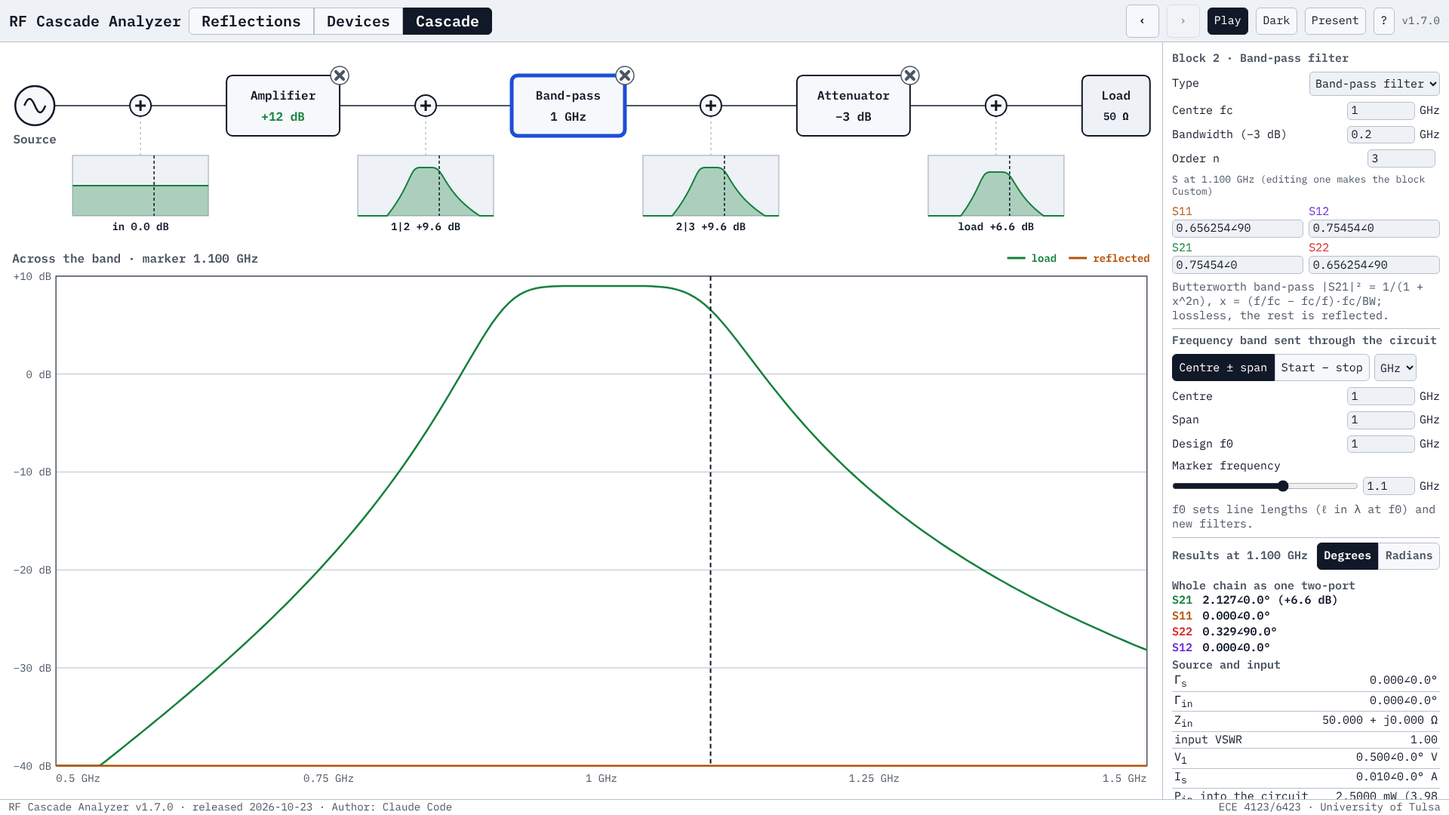
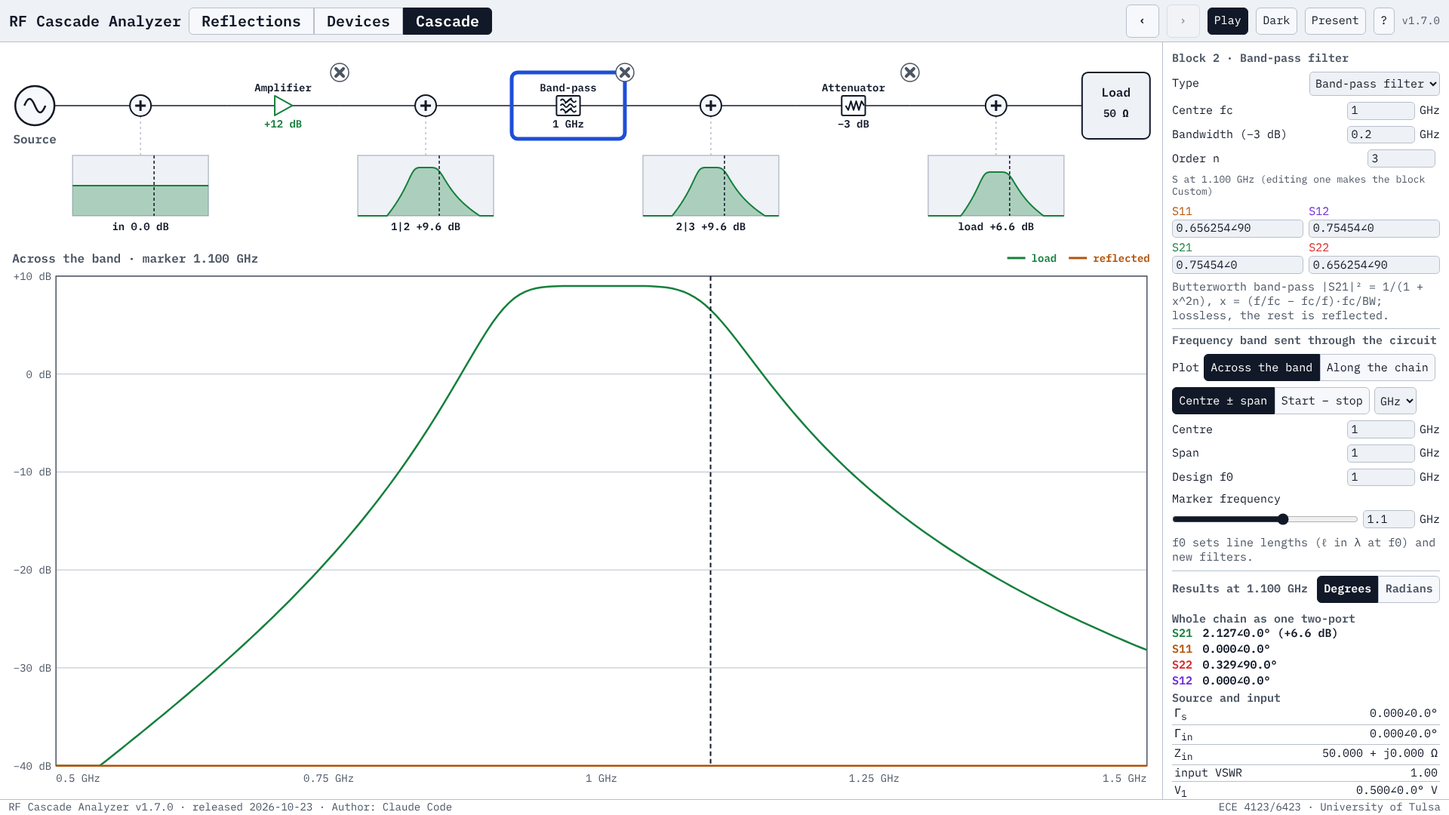
RF Cascade v1.7.0: Cascade blocks as standard schematic symbols; power along the chain plot
Each block is drawn with its standard schematic symbol on the wire
(amplifier triangle, attenuator resistor box, transmission line, phase
shifter, low-/high-/band-pass filter waves with the stopped bands struck,
isolator arrow, Custom S), with its name above and value below. A new
plot shows the power after each stage at the marker frequency, with the
stages' symbols along its axis; with a divider the line splits into
branch A and branch B. A Plot switch in the panel chooses it or the
response across the band.

Claude-Session: https://claude.ai/code/session_01K91XZ2Ca3dbV4NeCriL9c8

diff --git a/ece-4123/RF_Cascade_Analyzer_v1.7.0.html b/ece-4123/RF_Cascade_Analyzer_v1.7.0.html
@@ -4,7 +4,7 @@
   Version: v1.7.0
   Released: 2026-10-23
   Changelog:
-    v1.7.0 - Cascade: v1.1.0's Lab brought back (source Vs and Zs, reference Z0, loads with Matched/Short/Open, device presets with S entries, results with node voltages, currents and powers), its settings and results in the side panel and the circuit drawn large across the drawing area; a power divider can be inserted at any junction, splitting the chain into two parallel branches with their own loads; a frequency band (centre ± span or start–stop) is sent through the circuit, with the spectrum at every junction, the response across the band, a marker frequency, and frequency-dependent lines and Butterworth low-, high- and band-pass filters. Reflections: incident and reflected waves drawn heavier, the envelope shade faint while they are shown. Devices: a zero-valued S path keeps the same solid style (no dashes, not faded), at the minimum width, valued "0".
+    v1.7.0 - Cascade: v1.1.0's Lab brought back (source Vs and Zs, reference Z0, loads with Matched/Short/Open, device presets with S entries, results with node voltages, currents and powers), its settings and results in the side panel and the circuit drawn large across the drawing area; a power divider can be inserted at any junction, splitting the chain into two parallel branches with their own loads; a frequency band (centre ± span or start–stop) is sent through the circuit, with the spectrum at every junction, the response across the band, a marker frequency, and frequency-dependent lines and Butterworth low-, high- and band-pass filters; each block drawn with its standard schematic symbol, and a plot of the power along the chain (after each stage, the stages' symbols on its axis) as an alternative to the response across the band. Reflections: incident and reflected waves drawn heavier, the envelope shade faint while they are shown. Devices: a zero-valued S path keeps the same solid style (no dashes, not faded), at the minimum width, valued "0".
     v1.6.0 - Devices: drawn as the incident / reflected / transmitted flow diagram (V1⁺ and V2⁺ split into S21, S11 and S12, S22; braces gather V1⁻ and V2⁻; a DUT box with Port 1 and Port 2), each path in its S colour and as wide as its power, unexcited paths faded but clearly visible, values and power shares on the paths; every device's S entries editable, keeping the device as "<Device> (edited)" with a reset.
     v1.5.0 - Devices: two-port drawn as the textbook signal-flow graph (each port two terminal wires, a in on top, b out on the bottom; S21 and S12 crossing, S11 and S22 down each side); wave arrows always solid; S-parameters adjustable on every device. Reflections: an open or a short ends the line (a marker at the interface, nothing enters Region 2). Cascade: the v1.3.0 drawing restored, with the S-parameter editor kept; a block can be inserted at any junction of the chain.
     v1.4.1 - Declutter: smaller text at all window sizes; Reflections — separate power rows, voltage plot enlarged, titles/legend/caption to the side panel, VSWR equation and extra labels removed, incident/reflected off by default; Devices — one port line per side, waves as arrows beside it, thinner paths, smaller matrix; Cascade — S-parameter editor shown on selection.
@@ -1249,8 +1249,8 @@ const DEC_P = 4, DEC_DBM = 2, DEC_RAD = 3, MW = 1e-3;
 const PLOT_SPAN = 50, MINI_SPAN = 40;   // dB shown by the response plot and by each junction spectrum
 /* Layout (design units = px at 1280×720). The drawing is as wide as the drawing area (at least 900): the circuit spreads
    to fill it. Cascade: one row; divider: branch A above, the chain and the divider in the middle, branch B below. */
-const LY_C = { edge: 16, srcR: 26, loadW: 90, divW: 96, plusR: 14, rowC: 84, rowsD: { A: 118, M: 198, B: 278 }, bhC: 80, bhD: 60,
-               miniC: { top: 150, h: 80 }, miniD: { top: 24, h: 46, topB: 330 }, plotC: 272, plotD: 412 };
+const LY_C = { edge: 16, srcR: 26, loadW: 90, divW: 96, plusR: 14, rowC: 84, rowsD: { A: 118, M: 198, B: 278 }, bhC: 88, bhD: 80,
+               miniC: { top: 150, h: 80 }, miniD: { top: 22, h: 44, topB: 330 }, plotC: 272, plotD: 412 };
 // ── END CONSTANTS ─────────────────────────────────────────────
 
 // ── STATE ─────────────────────────────────────────────────────
@@ -1259,7 +1259,7 @@ const K = {
   main: [], A: [], B: [], div: null,                                   // div: null, or { type, split (% into A) }
   zl: zLoad(C(50, 0)), zlA: zLoad(C(50, 0)), zlB: zLoad(C(50, 0)),
   f1: 0.5e9, f2: 1.5e9, bandMode: 'cs', fu: 'GHz', f0: 1e9, fm: 1e9,   // band start/stop (Hz), entry mode, unit, design and marker frequencies
-  sel: { k: 'main', i: 0 }, menu: false,                               // selection: a block { k: main|A|B, i }, or { k: src|load|div }; menu: "k:j" of an open "+"
+  sel: { k: 'main', i: 0 }, menu: false, plotMode: 'band',             // plotMode: the response across the band, or the power along the chain                               // selection: a block { k: main|A|B, i }, or { k: src|load|div }; menu: "k:j" of an open "+"
 };
 // A new block of a preset with its default parameters (custom: S, here a matched through).
 function newBlock(type, p){
@@ -1421,14 +1421,40 @@ function plusBtn(k, j, x, y, where){
     el('title', {}, 'Add a block here') + el('circle', { cx: x, cy: y, r: LY_C.plusR, fill: 'var(--panel)', stroke: 'var(--txt)', 'stroke-width': 2, class: 'plus' })
     + el('path', { d: 'M' + n2(x - 7) + ' ' + y + 'h14M' + n2(x) + ' ' + (y - 7) + 'v14', stroke: 'var(--txt)', 'stroke-width': 3 }));
 }
-// One block box: short name and key value, × to remove, the selected one highlighted.
+/* An RF schematic symbol for a block type, centred at (cx, cy), s units half-high, drawn in col: amplifier triangle,
+   attenuator (resistor in a box), transmission line, phase shifter (φ), filters (three waves, the stopped bands struck
+   through: low-pass the upper two, high-pass the lower two, band-pass the outer two), isolator (one-way arrow), Custom (S). */
+function sym(type, cx, cy, s, col){
+  const st = { fill: 'none', stroke: col, 'stroke-width': 2, 'stroke-linejoin': 'round' }, P = d => el('path', Object.assign({ d }, st));
+  const box = (w) => el('rect', Object.assign({ x: cx - w, y: cy - s, width: 2 * w, height: 2 * s, rx: 2 }, st, { fill: 'var(--bg)' }));
+  const wave = (y, w) => { let d = 'M' + n2(cx - w) + ' ' + n2(y); for(let i = 0; i < 2; i++){ d += 'q' + n2(w / 4) + ' ' + n2(-s * 0.3) + ' ' + n2(w / 2) + ' 0t' + n2(w / 2) + ' 0'; } return P(d); };
+  const strike = y => P('M' + n2(cx - s * 0.35) + ' ' + n2(y + s * 0.28) + 'L' + n2(cx + s * 0.35) + ' ' + n2(y - s * 0.28));
+  let g = '';
+  switch(type){
+    case 'amp': g = P('M' + n2(cx - s * 0.85) + ' ' + n2(cy - s) + 'L' + n2(cx + s * 0.95) + ' ' + n2(cy) + 'L' + n2(cx - s * 0.85) + ' ' + n2(cy + s) + 'Z'); break;
+    case 'atten': g = box(s * 1.2) + P('M' + n2(cx - s * 0.8) + ' ' + cy + 'l' + [1, -1, 1, -1, 1, -1].map((v, i) => n2(s * 0.27) + ' ' + n2(v * s * 0.45 * (i ? 2 : 1))).join('l') + 'l' + n2(s * 0.27) + ' ' + n2(s * 0.45)); break;
+    case 'thru': g = el('rect', Object.assign({ x: cx - s * 1.6, y: cy - s * 0.35, width: s * 3.2, height: s * 0.7 }, st, { fill: 'var(--bg)' })); break;
+    case 'phase': g = box(s * 1.2) + txt(cx, cy, 'φ', { anchor: 'middle', size: FS.small, fill: col }); break;
+    case 'lpf': case 'hpf': case 'bpf': { const w = s * 0.8, ys = [cy - s * 0.5, cy, cy + s * 0.5];
+      g = box(s * 1.2) + ys.map(y => wave(y, w)).join('') + (type === 'lpf' ? [0, 1] : type === 'hpf' ? [1, 2] : [0, 2]).map(i => strike(ys[i])).join(''); break; }
+    case 'isolator': g = box(s * 1.2) + P('M' + n2(cx - s * 0.75) + ' ' + cy + 'H' + n2(cx + s * 0.35)) + el('path', { d: 'M' + n2(cx + s * 0.75) + ' ' + cy + 'l' + n2(-s * 0.5) + ' ' + n2(-s * 0.35) + 'v' + n2(s * 0.7) + 'Z', fill: col, stroke: 'none' }); break;
+    default: g = box(s * 1.2) + txt(cx, cy, 'S', { anchor: 'middle', size: FS.small, fill: col });
+  }
+  return el('g', { class: 'sym', 'data-sym': type }, g);
+}
+// Half-width of a symbol of half-height s (its leads run from the block's edges to here).
+const symHalf = (type, s) => (type === 'amp' ? s * 0.9 : type === 'thru' ? s * 1.6 : s * 1.2);
+/* One block: its RF symbol on the wire (leads from the block's edges), short name above, key value below, × to remove;
+   the block's area masks the wire behind it and is outlined only when selected. */
 function blockBox(G, k, i, x, y){
-  const d = K[k][i], on = isSel(k, i), top = y - G.bh / 2, cx = x + G.bw / 2, big = G.bw >= 110, fs = big ? FS.label : FS.small;
-  const lines = G.div ? [top + 17, top + 44] : [top + 26, top + 54];   // clear of the wire through the middle
+  const d = K[k][i], on = isSel(k, i), top = y - G.bh / 2, cx = x + G.bw / 2, big = G.bw >= 110, fs = FS.small;   // 14: names clear the × at the corner
+  const ss = G.div ? 11 : 13, dy = G.div ? 22 : 24, hw = symHalf(d.type, ss);
   let s = btnG({ 'data-blk': k + ':' + i, 'aria-pressed': on ? 'true' : 'false' }, blockName(k, i) + ': ' + PRESET_NAME[d.type] + ' ' + keyText(d) + (on ? ' (selected)' : ''),
-    el('rect', { x, y: top, width: G.bw, height: G.bh, rx: 8, fill: 'var(--panel)', stroke: on ? 'var(--focus)' : 'var(--txt)', 'stroke-width': on ? 5 : 2, class: 'block' + (on ? ' sel' : '') })
-    + txt(cx, lines[0], (big ? SHORT_NAME : ABBR)[d.type], { anchor: 'middle', size: fs })
-    + txt(cx, lines[1], keyText(d), { anchor: 'middle', size: fs, fill: d.type === 'amp' ? 'var(--s21)' : 'var(--txt)', cls: 'keyv' }));
+    el('rect', { x, y: top, width: G.bw, height: G.bh, rx: 8, fill: 'var(--bg)', stroke: on ? 'var(--focus)' : 'none', 'stroke-width': on ? 5 : 2, class: 'block' + (on ? ' sel' : '') })
+    + el('path', { d: 'M' + n2(x) + ' ' + y + 'H' + n2(cx - hw) + 'M' + n2(cx + hw) + ' ' + y + 'H' + n2(x + G.bw), stroke: 'var(--mut)', 'stroke-width': 2, class: 'lead' })
+    + sym(d.type, cx, y, ss, d.type === 'amp' ? 'var(--s21)' : 'var(--txt)')
+    + txt(cx, y - dy, (big ? SHORT_NAME : ABBR)[d.type], { anchor: 'middle', size: fs })
+    + txt(cx, y + dy, keyText(d), { anchor: 'middle', size: fs, fill: d.type === 'amp' ? 'var(--s21)' : 'var(--txt)', cls: 'keyv' }));
   if(K.div || K.main.length > 1) s += btnG({ 'data-del': k + ':' + i }, 'Remove ' + blockName(k, i).toLowerCase(),
     el('circle', { cx: x + G.bw, cy: top, r: 12, fill: 'var(--bg)', stroke: 'var(--mut)', 'stroke-width': 1.5, class: 'xbtn' }) + crossMark(x + G.bw, top, 5, 'var(--mut)'));
   return s;
@@ -1438,8 +1464,8 @@ function loadBox(G, b, y){
   const zl = K[loadKey(b)], top = y - G.bh / 2, cx = G.loadX + LY_C.loadW / 2, on = isSel('load') && K.sel.b === b;
   return btnG({ 'data-load': b, 'aria-pressed': on ? 'true' : 'false' }, 'Load' + (b === 'L' ? '' : ' ' + b) + ': ' + loadShort(zl).replace(INF, 'open'),
     el('rect', { x: G.loadX, y: top, width: LY_C.loadW, height: G.bh, rx: 8, fill: 'var(--bg2)', stroke: on ? 'var(--focus)' : 'var(--txt)', 'stroke-width': on ? 5 : 2, class: 'load' })
-    + txt(cx, top + (G.div ? 17 : 26), 'Load' + (b === 'L' ? '' : ' ' + b), { anchor: 'middle', size: G.div ? FS.small : FS.label })
-    + txt(cx, top + (G.div ? 44 : 54), loadShort(zl), { anchor: 'middle', size: FS.small, id: 'loadVal' + (b === 'L' ? '' : b) }));
+    + txt(cx, top + (G.div ? 22 : 26), 'Load' + (b === 'L' ? '' : ' ' + b), { anchor: 'middle', size: G.div ? FS.small : FS.label })
+    + txt(cx, top + (G.div ? 50 : 54), loadShort(zl), { anchor: 'middle', size: FS.small, id: 'loadVal' + (b === 'L' ? '' : b) }));
 }
 // The circuit: source, wires, blocks, the divider and its branches, loads, and a "+" at every junction with room.
 function drawCircuit(G){
@@ -1527,6 +1553,43 @@ function drawPlot(G, sw, y0){
   K.plot = { x0, x1 };
   return s;
 }
+/* The power along the chain at the marker frequency (dB of the reference) after each stage, as in a cascade-analysis
+   chart: one point per junction, the stages' symbols along the axis; with a divider the line splits into branch A
+   (green) and branch B (purple, dashed), their symbols in their colours on two rows. */
+function drawChainPlot(G, atM, y0){
+  const e = LY_C.edge, nM = K.main.length, nBr = G.div ? Math.max(K.A.length, K.B.length) : 0, steps = G.div ? nM + 1 + nBr : nM;
+  const x0 = e + 58, x1 = G.W - e - 4, yt = y0 + 38, yb = G.H - e - (G.div ? 56 : 50);
+  if(yb - yt < 60) return '';
+  const xs = i => x0 + 30 + (x1 - x0 - 60) * i / Math.max(1, steps);
+  const pts = { M: atM.M.map((v, j) => [xs(j), v, 'chainM' + j]) };
+  if(G.div) ['A', 'B'].forEach(k => { pts[k] = [[xs(nM), atM.M[nM]]].concat(atM[k].map((v, j) => [xs(nM + 1 + j), v, 'chain' + k + j])); });
+  const all = [].concat(atM.M, atM.A, atM.B).map(db10).filter(isFinite), top = 10 * Math.ceil((Math.max(0, ...all) + 1) / 10);
+  const bot = Math.max(top - 80, Math.min(top - 30, 10 * Math.floor((Math.min(...all, 0) - 1) / 10))), span = top - bot;
+  const ys = r => { const d = db10(r); return yb - (yb - yt) * (Math.max(bot, Math.min(top, d === -Infinity ? bot : d)) - bot) / span; };
+  const series = G.div ? [['load A', 'var(--s21)'], ['load B', 'var(--s12)', true]] : [['load', 'var(--s21)']];
+  let s = heading(e, y0 + 14, 'Along the chain at ' + fFull(K.fm));
+  let lx = G.W - e;
+  series.slice().reverse().forEach(([t, col, dash]) => { s += txt(lx, y0 + 14, t, { anchor: 'end', size: FS.small, fill: col, cls: 'legend' }); lx -= textW(t, FS.small) + 8;
+    s += el('line', { x1: lx - 24, y1: y0 + 14, x2: lx, y2: y0 + 14, stroke: col, 'stroke-width': 3, 'stroke-dasharray': dash ? '6 4' : null }); lx -= 40; });
+  for(let v = bot; v <= top; v += 10){ const y = ys(Math.pow(10, v / 10));
+    s += el('line', { x1: x0, y1: y, x2: x1, y2: y, stroke: 'var(--line)', 'stroke-width': 1, class: 'grid' });
+    s += txt(x0 - 6, y, (v > 0 ? '+' : '') + fx(v, 0) + ' dB', { anchor: 'end', size: FS.small, fill: 'var(--mut)', weight: 400 }); }
+  for(let i = 0; i <= steps; i++) s += el('line', { x1: xs(i), y1: yt, x2: xs(i), y2: yb, stroke: 'var(--line)', 'stroke-width': 1, 'stroke-dasharray': '2 4', class: 'grid' });
+  s += el('rect', { x: x0, y: yt, width: x1 - x0, height: yb - yt, fill: 'none', stroke: 'var(--mut)', 'stroke-width': 1.5, class: 'frame' });
+  const line = (p, col, dash, q) => el('path', { d: 'M' + p.map(([x, v]) => n2(x) + ' ' + n2(ys(v))).join('L'), fill: 'none', stroke: col, 'stroke-width': 3, 'stroke-dasharray': dash ? '9 6' : null, class: 'curve', 'data-q': q });
+  const dots = (p, col) => p.filter(x => x[2]).map(([x, v, q]) => el('circle', { cx: x, cy: ys(v), r: 4.5, fill: col, stroke: 'var(--bg)', 'stroke-width': 1.5, class: 'cdot', 'data-q': q, 'data-v': +db10(v).toFixed(6) })).join('');
+  if(G.div){ s += line(pts.M, 'var(--txt)', false, 'chainLineM') + line(pts.A, 'var(--s21)', false, 'chainLineA') + line(pts.B, 'var(--s12)', true, 'chainLineB');
+    s += dots(pts.M, 'var(--txt)') + dots(pts.A, 'var(--s21)') + dots(pts.B, 'var(--s12)'); }
+  else s += line(pts.M, 'var(--s21)', false, 'chainLineM') + dots(pts.M, 'var(--s21)');
+  // the stages' symbols under the axis, between their two points (names under them when there is no divider)
+  const mid = i => (xs(i) + xs(i + 1)) / 2, yS = yb + 18, yS2 = yb + 42;
+  K.main.forEach((d, i) => { s += sym(d.type, mid(i), yS, 9, 'var(--txt)'); if(!G.div) s += txt(mid(i), yb + 40, ABBR[d.type], { anchor: 'middle', size: FS.small, fill: 'var(--mut)', weight: 400 }); });
+  if(G.div){ const xd = mid(nM);
+    s += el('path', { d: 'M' + n2(xd - 12) + ' ' + yS + 'H' + n2(xd) + 'M' + n2(xd) + ' ' + yS + 'L' + n2(xd + 12) + ' ' + (yS - 8) + 'M' + n2(xd) + ' ' + yS + 'L' + n2(xd + 12) + ' ' + (yS + 8), fill: 'none', stroke: 'var(--txt)', 'stroke-width': 2, class: 'sym' });
+    K.A.forEach((d, i) => { s += sym(d.type, mid(nM + 1 + i), yS, 9, 'var(--s21)'); });
+    K.B.forEach((d, i) => { s += sym(d.type, mid(nM + 1 + i), yS2, 9, 'var(--s12)'); }); }
+  return s;
+}
 // The whole Cascade drawing (W: the drawing's width in design units).
 function drawCascade(H, W){
   W = Math.max(DESIGN_W, W || DESIGN_W);
@@ -1534,7 +1597,7 @@ function drawCascade(H, W){
   const atM = { M: at(r.nodesM), A: G.div ? at(r.nodesA) : [], B: G.div ? at(r.nodesB) : [] };
   K.geo = G;
   return el('svg', { class: 'vis', viewBox: '0 0 ' + n2(W) + ' ' + n2(H), role: 'img', 'aria-label': 'Cascade: the circuit, the band\'s spectrum at each junction and the response across the band' },
-    drawMinis(G, sw, atM) + drawCircuit(G) + drawPlot(G, sw, G.div ? LY_C.plotD : LY_C.plotC));
+    drawMinis(G, sw, atM) + drawCircuit(G) + (K.plotMode === 'chain' ? drawChainPlot(G, atM, G.div ? LY_C.plotD : LY_C.plotC) : drawPlot(G, sw, G.div ? LY_C.plotD : LY_C.plotC)));
 }
 // ── END DRAWING ───────────────────────────────────────────────
 
@@ -1690,6 +1753,7 @@ function bandEditor(){
   const mk = slider({ id: 'fm', label: 'Marker frequency', min: K.f1 / u, max: K.f2 / u, step: 'any', value: K.fm / u, unit: K.fu, fmt: v => v + ' ' + K.fu,
     onset: v => { K.fm = Math.min(K.f2, Math.max(K.f1, v * u)); redraw(false); } });
   return [h('div', { cls: 'sec', text: 'Frequency band sent through the circuit' }),
+    h('div', { cls: 'nrow' }, h('span', { text: 'Plot' }), segGroup('Plot', [['band', 'Across the band'], ['chain', 'Along the chain']], K.plotMode, v => { K.plotMode = v; redraw(true); })),
     h('div', { cls: 'btnrow' }, segGroup('Band entry', [['cs', 'Centre ± span'], ['ss', 'Start – stop']], K.bandMode, v => { K.bandMode = v; redraw(true); }), unitSel),
     a, b, numField('f0', 'Design f0', K.f0 / u, K.fu, v => v > 0, v => { K.f0 = v * u; }), mk,
     note('f0 sets line lengths (ℓ in λ at f0) and new filters.')];

diff --git a/ece-4123/RF_Cascade_Analyzer_src/cascade.js b/ece-4123/RF_Cascade_Analyzer_src/cascade.js
@@ -58,8 +58,8 @@ const DEC_P = 4, DEC_DBM = 2, DEC_RAD = 3, MW = 1e-3;
 const PLOT_SPAN = 50, MINI_SPAN = 40;   // dB shown by the response plot and by each junction spectrum
 /* Layout (design units = px at 1280×720). The drawing is as wide as the drawing area (at least 900): the circuit spreads
    to fill it. Cascade: one row; divider: branch A above, the chain and the divider in the middle, branch B below. */
-const LY_C = { edge: 16, srcR: 26, loadW: 90, divW: 96, plusR: 14, rowC: 84, rowsD: { A: 118, M: 198, B: 278 }, bhC: 80, bhD: 60,
-               miniC: { top: 150, h: 80 }, miniD: { top: 24, h: 46, topB: 330 }, plotC: 272, plotD: 412 };
+const LY_C = { edge: 16, srcR: 26, loadW: 90, divW: 96, plusR: 14, rowC: 84, rowsD: { A: 118, M: 198, B: 278 }, bhC: 88, bhD: 80,
+               miniC: { top: 150, h: 80 }, miniD: { top: 22, h: 44, topB: 330 }, plotC: 272, plotD: 412 };
 // ── END CONSTANTS ─────────────────────────────────────────────
 
 // ── STATE ─────────────────────────────────────────────────────
@@ -68,7 +68,7 @@ const K = {
   main: [], A: [], B: [], div: null,                                   // div: null, or { type, split (% into A) }
   zl: zLoad(C(50, 0)), zlA: zLoad(C(50, 0)), zlB: zLoad(C(50, 0)),
   f1: 0.5e9, f2: 1.5e9, bandMode: 'cs', fu: 'GHz', f0: 1e9, fm: 1e9,   // band start/stop (Hz), entry mode, unit, design and marker frequencies
-  sel: { k: 'main', i: 0 }, menu: false,                               // selection: a block { k: main|A|B, i }, or { k: src|load|div }; menu: "k:j" of an open "+"
+  sel: { k: 'main', i: 0 }, menu: false, plotMode: 'band',             // plotMode: the response across the band, or the power along the chain                               // selection: a block { k: main|A|B, i }, or { k: src|load|div }; menu: "k:j" of an open "+"
 };
 // A new block of a preset with its default parameters (custom: S, here a matched through).
 function newBlock(type, p){
@@ -230,14 +230,40 @@ function plusBtn(k, j, x, y, where){
     el('title', {}, 'Add a block here') + el('circle', { cx: x, cy: y, r: LY_C.plusR, fill: 'var(--panel)', stroke: 'var(--txt)', 'stroke-width': 2, class: 'plus' })
     + el('path', { d: 'M' + n2(x - 7) + ' ' + y + 'h14M' + n2(x) + ' ' + (y - 7) + 'v14', stroke: 'var(--txt)', 'stroke-width': 3 }));
 }
-// One block box: short name and key value, × to remove, the selected one highlighted.
+/* An RF schematic symbol for a block type, centred at (cx, cy), s units half-high, drawn in col: amplifier triangle,
+   attenuator (resistor in a box), transmission line, phase shifter (φ), filters (three waves, the stopped bands struck
+   through: low-pass the upper two, high-pass the lower two, band-pass the outer two), isolator (one-way arrow), Custom (S). */
+function sym(type, cx, cy, s, col){
+  const st = { fill: 'none', stroke: col, 'stroke-width': 2, 'stroke-linejoin': 'round' }, P = d => el('path', Object.assign({ d }, st));
+  const box = (w) => el('rect', Object.assign({ x: cx - w, y: cy - s, width: 2 * w, height: 2 * s, rx: 2 }, st, { fill: 'var(--bg)' }));
+  const wave = (y, w) => { let d = 'M' + n2(cx - w) + ' ' + n2(y); for(let i = 0; i < 2; i++){ d += 'q' + n2(w / 4) + ' ' + n2(-s * 0.3) + ' ' + n2(w / 2) + ' 0t' + n2(w / 2) + ' 0'; } return P(d); };
+  const strike = y => P('M' + n2(cx - s * 0.35) + ' ' + n2(y + s * 0.28) + 'L' + n2(cx + s * 0.35) + ' ' + n2(y - s * 0.28));
+  let g = '';
+  switch(type){
+    case 'amp': g = P('M' + n2(cx - s * 0.85) + ' ' + n2(cy - s) + 'L' + n2(cx + s * 0.95) + ' ' + n2(cy) + 'L' + n2(cx - s * 0.85) + ' ' + n2(cy + s) + 'Z'); break;
+    case 'atten': g = box(s * 1.2) + P('M' + n2(cx - s * 0.8) + ' ' + cy + 'l' + [1, -1, 1, -1, 1, -1].map((v, i) => n2(s * 0.27) + ' ' + n2(v * s * 0.45 * (i ? 2 : 1))).join('l') + 'l' + n2(s * 0.27) + ' ' + n2(s * 0.45)); break;
+    case 'thru': g = el('rect', Object.assign({ x: cx - s * 1.6, y: cy - s * 0.35, width: s * 3.2, height: s * 0.7 }, st, { fill: 'var(--bg)' })); break;
+    case 'phase': g = box(s * 1.2) + txt(cx, cy, 'φ', { anchor: 'middle', size: FS.small, fill: col }); break;
+    case 'lpf': case 'hpf': case 'bpf': { const w = s * 0.8, ys = [cy - s * 0.5, cy, cy + s * 0.5];
+      g = box(s * 1.2) + ys.map(y => wave(y, w)).join('') + (type === 'lpf' ? [0, 1] : type === 'hpf' ? [1, 2] : [0, 2]).map(i => strike(ys[i])).join(''); break; }
+    case 'isolator': g = box(s * 1.2) + P('M' + n2(cx - s * 0.75) + ' ' + cy + 'H' + n2(cx + s * 0.35)) + el('path', { d: 'M' + n2(cx + s * 0.75) + ' ' + cy + 'l' + n2(-s * 0.5) + ' ' + n2(-s * 0.35) + 'v' + n2(s * 0.7) + 'Z', fill: col, stroke: 'none' }); break;
+    default: g = box(s * 1.2) + txt(cx, cy, 'S', { anchor: 'middle', size: FS.small, fill: col });
+  }
+  return el('g', { class: 'sym', 'data-sym': type }, g);
+}
+// Half-width of a symbol of half-height s (its leads run from the block's edges to here).
+const symHalf = (type, s) => (type === 'amp' ? s * 0.9 : type === 'thru' ? s * 1.6 : s * 1.2);
+/* One block: its RF symbol on the wire (leads from the block's edges), short name above, key value below, × to remove;
+   the block's area masks the wire behind it and is outlined only when selected. */
 function blockBox(G, k, i, x, y){
-  const d = K[k][i], on = isSel(k, i), top = y - G.bh / 2, cx = x + G.bw / 2, big = G.bw >= 110, fs = big ? FS.label : FS.small;
-  const lines = G.div ? [top + 17, top + 44] : [top + 26, top + 54];   // clear of the wire through the middle
+  const d = K[k][i], on = isSel(k, i), top = y - G.bh / 2, cx = x + G.bw / 2, big = G.bw >= 110, fs = FS.small;   // 14: names clear the × at the corner
+  const ss = G.div ? 11 : 13, dy = G.div ? 22 : 24, hw = symHalf(d.type, ss);
   let s = btnG({ 'data-blk': k + ':' + i, 'aria-pressed': on ? 'true' : 'false' }, blockName(k, i) + ': ' + PRESET_NAME[d.type] + ' ' + keyText(d) + (on ? ' (selected)' : ''),
-    el('rect', { x, y: top, width: G.bw, height: G.bh, rx: 8, fill: 'var(--panel)', stroke: on ? 'var(--focus)' : 'var(--txt)', 'stroke-width': on ? 5 : 2, class: 'block' + (on ? ' sel' : '') })
-    + txt(cx, lines[0], (big ? SHORT_NAME : ABBR)[d.type], { anchor: 'middle', size: fs })
-    + txt(cx, lines[1], keyText(d), { anchor: 'middle', size: fs, fill: d.type === 'amp' ? 'var(--s21)' : 'var(--txt)', cls: 'keyv' }));
+    el('rect', { x, y: top, width: G.bw, height: G.bh, rx: 8, fill: 'var(--bg)', stroke: on ? 'var(--focus)' : 'none', 'stroke-width': on ? 5 : 2, class: 'block' + (on ? ' sel' : '') })
+    + el('path', { d: 'M' + n2(x) + ' ' + y + 'H' + n2(cx - hw) + 'M' + n2(cx + hw) + ' ' + y + 'H' + n2(x + G.bw), stroke: 'var(--mut)', 'stroke-width': 2, class: 'lead' })
+    + sym(d.type, cx, y, ss, d.type === 'amp' ? 'var(--s21)' : 'var(--txt)')
+    + txt(cx, y - dy, (big ? SHORT_NAME : ABBR)[d.type], { anchor: 'middle', size: fs })
+    + txt(cx, y + dy, keyText(d), { anchor: 'middle', size: fs, fill: d.type === 'amp' ? 'var(--s21)' : 'var(--txt)', cls: 'keyv' }));
   if(K.div || K.main.length > 1) s += btnG({ 'data-del': k + ':' + i }, 'Remove ' + blockName(k, i).toLowerCase(),
     el('circle', { cx: x + G.bw, cy: top, r: 12, fill: 'var(--bg)', stroke: 'var(--mut)', 'stroke-width': 1.5, class: 'xbtn' }) + crossMark(x + G.bw, top, 5, 'var(--mut)'));
   return s;
@@ -247,8 +273,8 @@ function loadBox(G, b, y){
   const zl = K[loadKey(b)], top = y - G.bh / 2, cx = G.loadX + LY_C.loadW / 2, on = isSel('load') && K.sel.b === b;
   return btnG({ 'data-load': b, 'aria-pressed': on ? 'true' : 'false' }, 'Load' + (b === 'L' ? '' : ' ' + b) + ': ' + loadShort(zl).replace(INF, 'open'),
     el('rect', { x: G.loadX, y: top, width: LY_C.loadW, height: G.bh, rx: 8, fill: 'var(--bg2)', stroke: on ? 'var(--focus)' : 'var(--txt)', 'stroke-width': on ? 5 : 2, class: 'load' })
-    + txt(cx, top + (G.div ? 17 : 26), 'Load' + (b === 'L' ? '' : ' ' + b), { anchor: 'middle', size: G.div ? FS.small : FS.label })
-    + txt(cx, top + (G.div ? 44 : 54), loadShort(zl), { anchor: 'middle', size: FS.small, id: 'loadVal' + (b === 'L' ? '' : b) }));
+    + txt(cx, top + (G.div ? 22 : 26), 'Load' + (b === 'L' ? '' : ' ' + b), { anchor: 'middle', size: G.div ? FS.small : FS.label })
+    + txt(cx, top + (G.div ? 50 : 54), loadShort(zl), { anchor: 'middle', size: FS.small, id: 'loadVal' + (b === 'L' ? '' : b) }));
 }
 // The circuit: source, wires, blocks, the divider and its branches, loads, and a "+" at every junction with room.
 function drawCircuit(G){
@@ -336,6 +362,43 @@ function drawPlot(G, sw, y0){
   K.plot = { x0, x1 };
   return s;
 }
+/* The power along the chain at the marker frequency (dB of the reference) after each stage, as in a cascade-analysis
+   chart: one point per junction, the stages' symbols along the axis; with a divider the line splits into branch A
+   (green) and branch B (purple, dashed), their symbols in their colours on two rows. */
+function drawChainPlot(G, atM, y0){
+  const e = LY_C.edge, nM = K.main.length, nBr = G.div ? Math.max(K.A.length, K.B.length) : 0, steps = G.div ? nM + 1 + nBr : nM;
+  const x0 = e + 58, x1 = G.W - e - 4, yt = y0 + 38, yb = G.H - e - (G.div ? 56 : 50);
+  if(yb - yt < 60) return '';
+  const xs = i => x0 + 30 + (x1 - x0 - 60) * i / Math.max(1, steps);
+  const pts = { M: atM.M.map((v, j) => [xs(j), v, 'chainM' + j]) };
+  if(G.div) ['A', 'B'].forEach(k => { pts[k] = [[xs(nM), atM.M[nM]]].concat(atM[k].map((v, j) => [xs(nM + 1 + j), v, 'chain' + k + j])); });
+  const all = [].concat(atM.M, atM.A, atM.B).map(db10).filter(isFinite), top = 10 * Math.ceil((Math.max(0, ...all) + 1) / 10);
+  const bot = Math.max(top - 80, Math.min(top - 30, 10 * Math.floor((Math.min(...all, 0) - 1) / 10))), span = top - bot;
+  const ys = r => { const d = db10(r); return yb - (yb - yt) * (Math.max(bot, Math.min(top, d === -Infinity ? bot : d)) - bot) / span; };
+  const series = G.div ? [['load A', 'var(--s21)'], ['load B', 'var(--s12)', true]] : [['load', 'var(--s21)']];
+  let s = heading(e, y0 + 14, 'Along the chain at ' + fFull(K.fm));
+  let lx = G.W - e;
+  series.slice().reverse().forEach(([t, col, dash]) => { s += txt(lx, y0 + 14, t, { anchor: 'end', size: FS.small, fill: col, cls: 'legend' }); lx -= textW(t, FS.small) + 8;
+    s += el('line', { x1: lx - 24, y1: y0 + 14, x2: lx, y2: y0 + 14, stroke: col, 'stroke-width': 3, 'stroke-dasharray': dash ? '6 4' : null }); lx -= 40; });
+  for(let v = bot; v <= top; v += 10){ const y = ys(Math.pow(10, v / 10));
+    s += el('line', { x1: x0, y1: y, x2: x1, y2: y, stroke: 'var(--line)', 'stroke-width': 1, class: 'grid' });
+    s += txt(x0 - 6, y, (v > 0 ? '+' : '') + fx(v, 0) + ' dB', { anchor: 'end', size: FS.small, fill: 'var(--mut)', weight: 400 }); }
+  for(let i = 0; i <= steps; i++) s += el('line', { x1: xs(i), y1: yt, x2: xs(i), y2: yb, stroke: 'var(--line)', 'stroke-width': 1, 'stroke-dasharray': '2 4', class: 'grid' });
+  s += el('rect', { x: x0, y: yt, width: x1 - x0, height: yb - yt, fill: 'none', stroke: 'var(--mut)', 'stroke-width': 1.5, class: 'frame' });
+  const line = (p, col, dash, q) => el('path', { d: 'M' + p.map(([x, v]) => n2(x) + ' ' + n2(ys(v))).join('L'), fill: 'none', stroke: col, 'stroke-width': 3, 'stroke-dasharray': dash ? '9 6' : null, class: 'curve', 'data-q': q });
+  const dots = (p, col) => p.filter(x => x[2]).map(([x, v, q]) => el('circle', { cx: x, cy: ys(v), r: 4.5, fill: col, stroke: 'var(--bg)', 'stroke-width': 1.5, class: 'cdot', 'data-q': q, 'data-v': +db10(v).toFixed(6) })).join('');
+  if(G.div){ s += line(pts.M, 'var(--txt)', false, 'chainLineM') + line(pts.A, 'var(--s21)', false, 'chainLineA') + line(pts.B, 'var(--s12)', true, 'chainLineB');
+    s += dots(pts.M, 'var(--txt)') + dots(pts.A, 'var(--s21)') + dots(pts.B, 'var(--s12)'); }
+  else s += line(pts.M, 'var(--s21)', false, 'chainLineM') + dots(pts.M, 'var(--s21)');
+  // the stages' symbols under the axis, between their two points (names under them when there is no divider)
+  const mid = i => (xs(i) + xs(i + 1)) / 2, yS = yb + 18, yS2 = yb + 42;
+  K.main.forEach((d, i) => { s += sym(d.type, mid(i), yS, 9, 'var(--txt)'); if(!G.div) s += txt(mid(i), yb + 40, ABBR[d.type], { anchor: 'middle', size: FS.small, fill: 'var(--mut)', weight: 400 }); });
+  if(G.div){ const xd = mid(nM);
+    s += el('path', { d: 'M' + n2(xd - 12) + ' ' + yS + 'H' + n2(xd) + 'M' + n2(xd) + ' ' + yS + 'L' + n2(xd + 12) + ' ' + (yS - 8) + 'M' + n2(xd) + ' ' + yS + 'L' + n2(xd + 12) + ' ' + (yS + 8), fill: 'none', stroke: 'var(--txt)', 'stroke-width': 2, class: 'sym' });
+    K.A.forEach((d, i) => { s += sym(d.type, mid(nM + 1 + i), yS, 9, 'var(--s21)'); });
+    K.B.forEach((d, i) => { s += sym(d.type, mid(nM + 1 + i), yS2, 9, 'var(--s12)'); }); }
+  return s;
+}
 // The whole Cascade drawing (W: the drawing's width in design units).
 function drawCascade(H, W){
   W = Math.max(DESIGN_W, W || DESIGN_W);
@@ -343,7 +406,7 @@ function drawCascade(H, W){
   const atM = { M: at(r.nodesM), A: G.div ? at(r.nodesA) : [], B: G.div ? at(r.nodesB) : [] };
   K.geo = G;
   return el('svg', { class: 'vis', viewBox: '0 0 ' + n2(W) + ' ' + n2(H), role: 'img', 'aria-label': 'Cascade: the circuit, the band\'s spectrum at each junction and the response across the band' },
-    drawMinis(G, sw, atM) + drawCircuit(G) + drawPlot(G, sw, G.div ? LY_C.plotD : LY_C.plotC));
+    drawMinis(G, sw, atM) + drawCircuit(G) + (K.plotMode === 'chain' ? drawChainPlot(G, atM, G.div ? LY_C.plotD : LY_C.plotC) : drawPlot(G, sw, G.div ? LY_C.plotD : LY_C.plotC)));
 }
 // ── END DRAWING ───────────────────────────────────────────────
 
@@ -499,6 +562,7 @@ function bandEditor(){
   const mk = slider({ id: 'fm', label: 'Marker frequency', min: K.f1 / u, max: K.f2 / u, step: 'any', value: K.fm / u, unit: K.fu, fmt: v => v + ' ' + K.fu,
     onset: v => { K.fm = Math.min(K.f2, Math.max(K.f1, v * u)); redraw(false); } });
   return [h('div', { cls: 'sec', text: 'Frequency band sent through the circuit' }),
+    h('div', { cls: 'nrow' }, h('span', { text: 'Plot' }), segGroup('Plot', [['band', 'Across the band'], ['chain', 'Along the chain']], K.plotMode, v => { K.plotMode = v; redraw(true); })),
     h('div', { cls: 'btnrow' }, segGroup('Band entry', [['cs', 'Centre ± span'], ['ss', 'Start – stop']], K.bandMode, v => { K.bandMode = v; redraw(true); }), unitSel),
     a, b, numField('f0', 'Design f0', K.f0 / u, K.fu, v => v > 0, v => { K.f0 = v * u; }), mk,
     note('f0 sets line lengths (ℓ in λ at f0) and new filters.')];

diff --git a/ece-4123/RF_Cascade_Analyzer_src/tests/browser.test.js b/ece-4123/RF_Cascade_Analyzer_src/tests/browser.test.js
@@ -414,6 +414,19 @@ const devGapIssues = page => page.evaluate(() => {
     check('Enter on a focused block selects it', (await text(page, '#kTitle')) === 'Block 3 · Attenuator');
     await page.click('#stage [data-add="main:1"]'); await page.waitForTimeout(60); await page.keyboard.press('Escape'); await page.waitForTimeout(60);
     check('Esc closes the "+" menu', !(await page.$('.addmenu')));
+    check('each block is drawn with its standard schematic symbol (amplifier triangle, band-pass waves, attenuator resistor box)',
+      JSON.stringify(await page.$$eval('#stage [data-blk] .sym', e => e.map(x => x.dataset.sym))) === '["amp","bpf","atten"]');
+    await click(page, '#seg_chain');
+    const chainV = () => page.$$eval('#stage .cdot', e => e.map(x => x.dataset.q + ' ' + (+x.dataset.v).toFixed(1)));
+    check('Along the chain at 1 GHz: 0.0, +12.0, +12.0, +9.0 dB after each stage, the stages\' symbols under the axis; the band plot gone',
+      JSON.stringify(await chainV()) === JSON.stringify(['chainM0 0.0', 'chainM1 12.0', 'chainM2 12.0', 'chainM3 9.0']) && (await page.$$('#stage .sym')).length === 6 && !(await page.$('[data-plot]'))
+      && (await stageTexts(page)).includes('Along the chain at 1.000 GHz'), await chainV());
+    await page.click('#stage [data-add="main:2"]'); await page.waitForTimeout(60); await click(page, '#add_div');
+    const cv = await chainV();
+    check('…with a divider the line splits: div in +12.0, A in +9.0 / load A +6.0 (green), B in +9.0 / load B +6.0 (purple, dashed)',
+      ['chainM2 12.0', 'chainA0 9.0', 'chainA1 6.0', 'chainB0 9.0', 'chainB1 6.0'].every(x => cv.includes(x)) && !!(await page.$('[data-q="chainLineB"][stroke-dasharray]')), cv);
+    await click(page, '#seg_band');
+    check('Across the band again: the band plot is back', !!(await page.$('[data-plot]')) && !(await page.$('#stage .cdot')));
     await ctx.close(); }
 
   console.log('Devices S editor (v1.6.0: every device editable, "(edited)", reset)');
@@ -500,9 +513,10 @@ const devGapIssues = page => page.evaluate(() => {
     await page.click('#stage [data-add="main:2"]'); await page.waitForTimeout(60); await click(page, '#add_div'); await fn('cascade, divider (2 + 1 columns)');
     await page.click('#stage [data-add="A:1"]'); await page.waitForTimeout(60); await click(page, '#add_lpf'); await fn('cascade, divider, 4 columns');
     await page.click('#stage [data-load="B"]'); await page.waitForTimeout(60); await click(page, '#lOpen'); await fn('cascade, divider, load B open');
+    await click(page, '#seg_chain'); await fn('cascade, divider, along the chain');
     await page.keyboard.press('t'); await page.waitForTimeout(60); await fn('cascade, divider, dark'); await goto(page, '#view=devices&device=custom&drive=fwd'); await fn('devices custom, dark');
     await goto(page, '#view=reflections&vr=1'); await fn('reflections, dark'); await page.keyboard.press('t'); await page.waitForTimeout(60);
-    await goto(page, '#view=cascade'); await click(page, '#cReset'); await fn('cascade, example'); };
+    await goto(page, '#view=cascade'); await click(page, '#cReset'); await fn('cascade, example, along the chain'); await click(page, '#seg_band'); await fn('cascade, example'); };
   for(const [vw, label, pres, sizes] of [[{ width: 1280, height: 720 }, 'presentation 1280×720', true, true], [{ width: 1920, height: 1080 }, 'windowed 1920×1080', false, true],
                                          [{ width: 1920, height: 1080 }, 'presentation 1920×1080', true, false], [{ width: 1366, height: 768 }, 'windowed 1366×768', false, false]]){
     const { ctx, page, log } = await open(browser, { viewport: vw });
@@ -592,7 +606,8 @@ const devGapIssues = page => page.evaluate(() => {
       await page.click('#stage [data-blk="main:1"]'); await page.waitForTimeout(60); await setInput(page, '#fmN', '1.1'); await shot('cascade_bandpass_selected_marker_1.1GHz');
       await setInput(page, '#fmN', '1'); await page.click('#stage [data-add="main:2"]'); await page.waitForTimeout(60); await shot('cascade_add_menu');
       await click(page, '#add_div'); await shot('cascade_divider_light');
-      await page.keyboard.press('t'); await page.waitForTimeout(80); await shot('cascade_divider_dark'); await click(page, '#cReset'); await shot('cascade_example_dark');
+      await click(page, '#seg_chain'); await shot('cascade_divider_along_the_chain_light');
+      await page.keyboard.press('t'); await page.waitForTimeout(80); await shot('cascade_divider_dark'); await click(page, '#cReset'); await shot('cascade_example_along_the_chain_dark'); await click(page, '#seg_band'); await shot('cascade_example_dark');
       await ctx.close();
     }
   }

diff --git a/ece-4123/RF_Cascade_Analyzer_src/build.py b/ece-4123/RF_Cascade_Analyzer_src/build.py
@@ -27,7 +27,9 @@ CHANGELOG = ('\n    v1.7.0 - Cascade: v1.1.0\'s Lab brought back (source Vs and 
              'side panel and the circuit drawn large across the drawing area; a power divider can be inserted at any junction, '
              'splitting the chain into two parallel branches with their own loads; a frequency band (centre ± span or '
              'start–stop) is sent through the circuit, with the spectrum at every junction, the response across the band, '
-             'a marker frequency, and frequency-dependent lines and Butterworth low-, high- and band-pass filters. '
+             'a marker frequency, and frequency-dependent lines and Butterworth low-, high- and band-pass filters; each block '
+             'drawn with its standard schematic symbol, and a plot of the power along the chain (after each stage, the stages\' '
+             'symbols on its axis) as an alternative to the response across the band. '
              'Reflections: incident and reflected waves drawn heavier, the envelope shade faint while they are shown. '
              'Devices: a zero-valued S path keeps the same solid style (no dashes, not faded), at the minimum width, valued "0".'
              '\n    v1.6.0 - Devices: drawn as the incident / reflected / transmitted flow diagram (V1⁺ and V2⁺ split into '
